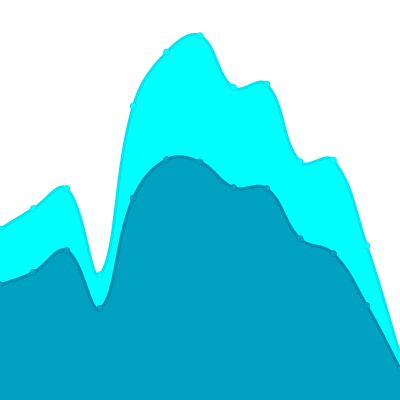
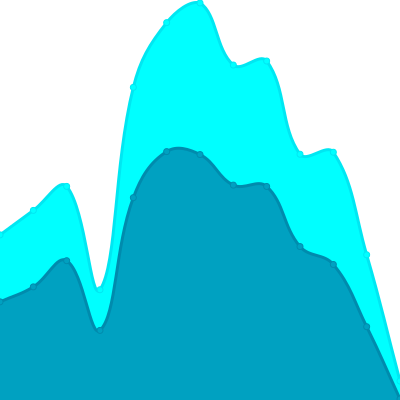
Update views

diff --git a/readme/964844222/year.md b/readme/964844222/year.md
@@ -23,10 +23,10 @@
 			<code>2026/8/1</code>
 		</td>
 		<td>
-			<code>471</code>
+			<code>512</code>
 		</td>
 		<td>
-			<code>679</code>
+			<code>737</code>
 		</td>
 	</tr>
 	<tr>
@@ -164,7 +164,7 @@
 </table>
 
 </details>
-<small><i>Last updated on 2026/8/12 12:42 PM UTC</i></small>
+<small><i>Last updated on 2026/8/12 6:45 PM UTC</i></small>
 
 ## ✂Copy and 📋 Paste
 ### SVG Badge

diff --git a/README.md b/README.md
@@ -119,7 +119,7 @@ What you are seeing here is using a modified github action by [cniesen](https://
 	</tr>
 </table>
 
-<small><i>Last updated on 2026/8/12 12:42 PM UTC</i></small>
+<small><i>Last updated on 2026/8/12 6:45 PM UTC</i></small>
 
 ## ✂Copy and 📋 Paste
 ### Total Views Badge

diff --git a/readme/411425982/year.md b/readme/411425982/year.md
@@ -164,7 +164,7 @@
 </table>
 
 </details>
-<small><i>Last updated on 2026/8/12 12:41 PM UTC</i></small>
+<small><i>Last updated on 2026/8/12 6:45 PM UTC</i></small>
 
 ## ✂Copy and 📋 Paste
 ### SVG Badge

diff --git a/readme/633030414/year.md b/readme/633030414/year.md
@@ -164,7 +164,7 @@
 </table>
 
 </details>
-<small><i>Last updated on 2026/8/12 12:42 PM UTC</i></small>
+<small><i>Last updated on 2026/8/12 6:45 PM UTC</i></small>
 
 ## ✂Copy and 📋 Paste
 ### SVG Badge

diff --git a/readme/946732374/year.md b/readme/946732374/year.md
@@ -164,7 +164,7 @@
 </table>
 
 </details>
-<small><i>Last updated on 2026/8/12 12:42 PM UTC</i></small>
+<small><i>Last updated on 2026/8/12 6:45 PM UTC</i></small>
 
 ## ✂Copy and 📋 Paste
 ### SVG Badge

diff --git a/readme/959189261/year.md b/readme/959189261/year.md
@@ -164,7 +164,7 @@
 </table>
 
 </details>
-<small><i>Last updated on 2026/8/12 12:42 PM UTC</i></small>
+<small><i>Last updated on 2026/8/12 6:45 PM UTC</i></small>
 
 ## ✂Copy and 📋 Paste
 ### SVG Badge

diff --git a/readme/985317875/year.md b/readme/985317875/year.md
@@ -164,7 +164,7 @@
 </table>
 
 </details>
-<small><i>Last updated on 2026/8/12 12:42 PM UTC</i></small>
+<small><i>Last updated on 2026/8/12 6:45 PM UTC</i></small>
 
 ## ✂Copy and 📋 Paste
 ### SVG Badge
